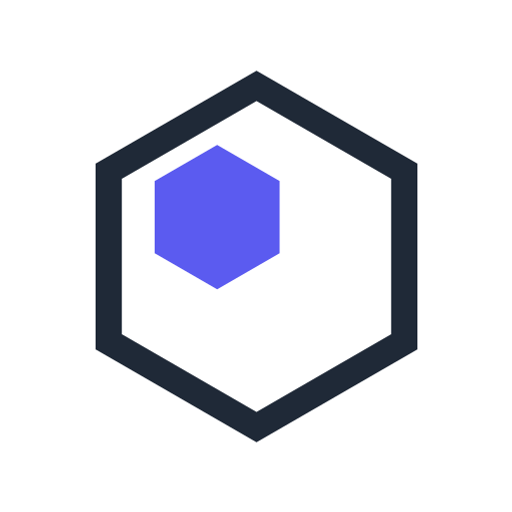
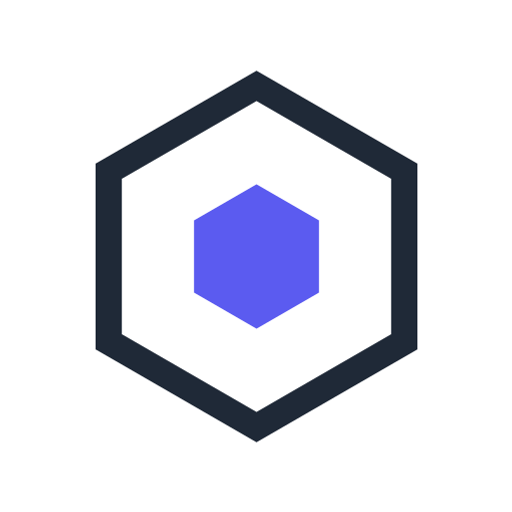
Centre the inner hex in the mark
Was offset up-left. Icons regenerated from the updated icon.svg.

Changed region(s): [[0.2812, 0.2812, 0.625, 0.6562]]

diff --git a/src/components/layout/Logo.tsx b/src/components/layout/Logo.tsx
@@ -29,7 +29,7 @@ export function Logo({ className }: { className?: string }) {
           strokeWidth="2"
         />
         <polygon
-          points="13,7.5 17.76,10.25 17.76,15.75 13,18.5 8.24,15.75 8.24,10.25"
+          points="16,10.5 20.76,13.25 20.76,18.75 16,21.5 11.24,18.75 11.24,13.25"
           className="fill-[#5B5BF0] transition-colors duration-300 ease-in-out group-hover:fill-accent-hi"
         />
       </svg>